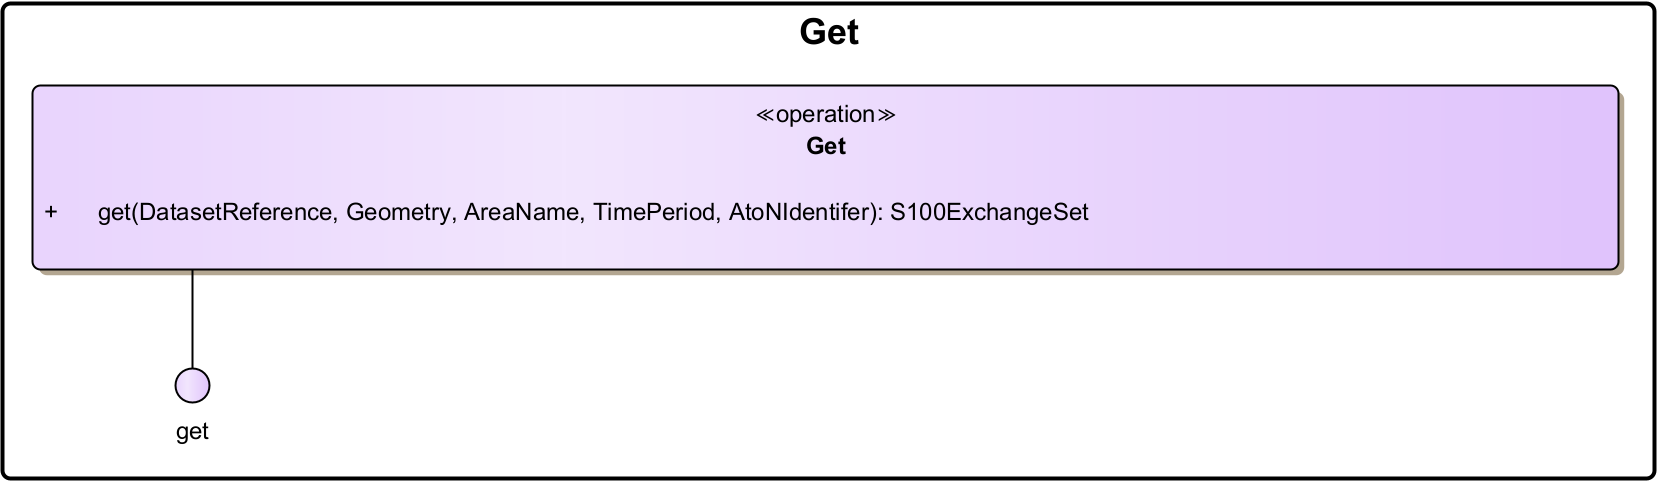
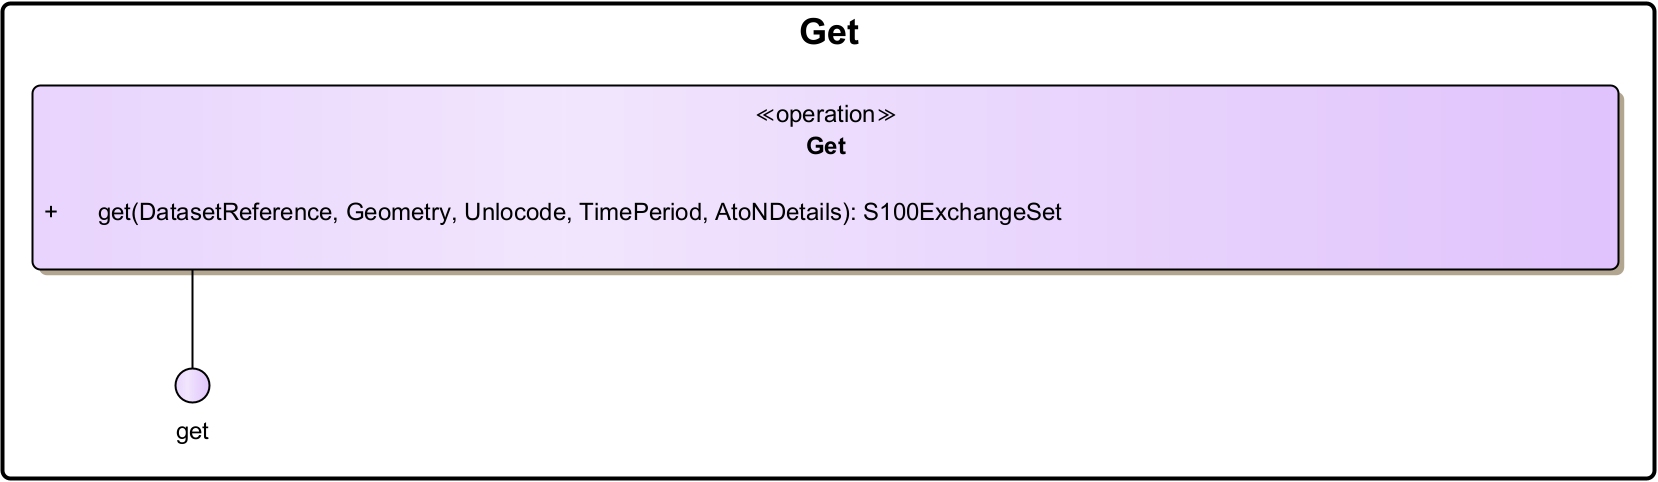
Updating the specification figures

Changed region(s): [[0.2768, 0.4046, 0.6767, 0.4668]]

diff --git a/source/guideline/service_overview.md b/source/guideline/service_overview.md
@@ -116,7 +116,7 @@ If multiple operation parameters are provided, only the results matching all req
 
 All instances of services providing AtoN information are required to support all operation parameters presented in the following sub-section [@sec:get_operation_parameters], apart from the `<TimePeriod>` which is optional. The specific encodings are left to be decided by the service technical design specification. In most cases the parameter description provides an adequate definition.
 
-The service also supports the AtoN status indication feature type included in the S-125 data product specification. By default the service will return S-125 datasets that only contain the status indication information for the involved AtoN. If the service provider however chooses so, an optional `<AtonDetails>` input parameter can be utilised to provide access to the full AtoN feature information for the respective datasets. These are expected to be much larger and the AtoN feature information may not be processed for portrayal on the ECDIS. If the full AtoN feature information is requested but not available, the service should respond with the default datasets containing the AtoN status indication features only.
+The service also supports the AtoN status indication feature type included in the S-125 data product specification. By default the service will return S-125 datasets that only contain the status indication information for the involved AtoN. If the service provider however chooses so, an optional `<AtoNDetails>` input parameter can be utilised to provide access to the full AtoN feature information for the respective datasets. These are expected to be much larger and the AtoN feature information may not be processed for portrayal on the ECDIS. If the full AtoN feature information is requested but not available, the service should respond with the default datasets containing the AtoN status indication features only.
 
 #### Operation Parameters {#sec:get_operation_parameters}
 
@@ -126,7 +126,7 @@ The service also supports the AtoN status indication feature type included in th
 | Geometry | See technical design | 0..1 | Geometry condition for geolocated information objects. This can be used to filter on geometric shapes (e.g. filter AtoN information S-125 datasets by a bounding box). |
 | unlocode | See technical design | 0..1 | UN/LOCODE (United Nations Code for Trade and Transport Locations) of a defined object (e.g., “CN” for China). |
 | TimePeriod (Optional) | See technical design | 0..1 | An optional parameter denoting the time period (ValidFrom, ValidTo) in which a dataset is valid and becomes subject to changes. The service response is expected to encompass all modifications that occurred within the specified interval and should be provided in the form of complete datasets or delta files, adhering to the specifications outlined in the S-100 data model specification. |
-| AtonDetails | Boolean | 0..1 | Requests that the service will return all AtoN information along with the status indications, if available. |
+| AtoNDetails | Boolean | 0..1 | Requests that the service will return all AtoN information along with the status indications, if available. |
 
 : The Get Operation Parameters. {#tbl:get_operational_parameters}
 
@@ -144,7 +144,7 @@ If multiple operation parameters are provided, only the results that match all r
 
 All instances of services providing AtoN information are required to support all operation parameters presented in the following sub-section [@sec:get_summary_operation_parameters], apart from the `<TimePeriod>` which is optional. The specific encodings are left to be decided by the respective service technical design specification. In most cases the parameter description provides an adequate definition.
 
-As discussed previously, the service also supports the AtoN status indication feature type included in the S-125. Therefore, by default the service will return the summary information of the S-125 datasets that only contain the status indication information for the involved AtoN. If the service provider however chooses so, an optional `<AtonDetails>` input parameter can be utilised to the summary information for the full respective datasets, including all AtoN features. If the full AtoN feature information is requested but not available, the service should respond with the summary of the default datasets containing the AtoN status indication features only.
+As discussed previously, the service also supports the AtoN status indication feature type included in the S-125. Therefore, by default the service will return the summary information of the S-125 datasets that only contain the status indication information for the involved AtoN. If the service provider however chooses so, an optional `<AtoNDetails>` input parameter can be utilised to the summary information for the full respective datasets, including all AtoN features. If the full AtoN feature information is requested but not available, the service should respond with the summary of the default datasets containing the AtoN status indication features only.
 
 #### Operation Parameters {#sec:get_summary_operation_parameters}
 
@@ -154,7 +154,7 @@ As discussed previously, the service also supports the AtoN status indication fe
 | Geometry | See technical design | 0..1 | Geometry condition for geolocated information objects. This can be used to filter on geometric shapes (e.g. filter AtoN information by a bounding box). |
 | unlocode | See technical design | 0..1 | UN/LOCODE (United Nations Code for Trade and Transport Locations) of a defined object (e.g., “CN” for China). |
 | TimePeriod (Optional) | See technical design | 0..1 | An optional parameter denoting the time period (ValidFrom, ValidTo) in which a dataset is valid and becomes subject to changes. The service response should only include the S-125 datasets for which modifications occurred within the specified interval. |
-| AtonDetails | Boolean | 0..1 | Requests that the service will return all AtoN information along with the status indications, if available. |
+| AtoNDetails | Boolean | 0..1 | Requests that the service will return all AtoN information along with the status indications, if available. |
 
 : The Get Summary Operation Parameters. {#tbl:get_summary_operational_parameters}
 
@@ -189,7 +189,7 @@ The Upload consumer operation is utilised by the service provider to push the in
 All instances of services providing AtoN information are required to support all operation parameters presented in the following sub-section [@sec:subscription_operation_parameters], although the specific encodings are left to be decided by the service technical design specification. In most cases the parameter description provides an adequate definition.
 
 
-As discussed previously, the service also supports the AtoN status indication feature type included in the S-125. Therefore, by default the service will return the S-125 dataset updates that only contain the status indication information for the involved AtoN. If the service provider however chooses so, an optional `<AtonDetails>` input parameter can be utilised to allow subscriptions tot the full respective datasets, including all AtoN features. If the full AtoN feature information is requested but not available, the service should respond with the default datasets containing the AtoN status indication features only.
+As discussed previously, the service also supports the AtoN status indication feature type included in the S-125. Therefore, by default the service will return the S-125 dataset updates that only contain the status indication information for the involved AtoN. If the service provider however chooses so, an optional `<AtoNDetails>` input parameter can be utilised to allow subscriptions tot the full respective datasets, including all AtoN features. If the full AtoN feature information is requested but not available, the service should respond with the default datasets containing the AtoN status indication features only.
 
 #### Operation Parameters {#sec:subscription_operation_parameters}
 
@@ -199,7 +199,7 @@ As discussed previously, the service also supports the AtoN status indication fe
 | Geometry | See technical design | 0..1 | Geometry condition for geolocated information objects. This can be used to filter on geometric shapes (e.g. filter AtoN information by a bounding box). |
 | unlocode | See technical design | 0..1 | UN/LOCODE (United Nations Code for Trade and Transport Locations) of a defined object (e.g., “CN” for China). |
 | SubscriptionPeriod | See technical design | 0..1 | The period for which the subscription is active (start and end date/time). |
-| AtonDetails | Boolean | 0..1 | Requests that the service will return all AtoN information along with the status indications, if available. |
+| AtoNDetails | Boolean | 0..1 | Requests that the service will return all AtoN information along with the status indications, if available. |
 
 : The Subscription Operation Parameters. {#tbl:subscription_operational_parameters}
 
@@ -265,8 +265,8 @@ The acknowledgement message may be expected to be received when the uploaded mes
 
 | Parameters (in) | Encoding | Mult. | Descriptions |
 | --- | --- | ---  | --- |
-| S100ExchangeSet | S100ExchangeSet | 1 | S-125 datasets which conform to the data product specification including the service metadata (see Section 5). |
-| FromSubscription (Optional) | See technical design | 0..1 | Flag to indicate whether the payload has been uploaded within an active subscription or not. |
+| Data | See technical design | 1 | S-125 datasets which conform to the data product specification including the service metadata (see Section 5). |
+| SubscriptionIdentifier (Optional) | See technical design | 0..1 | Specific identifier of the subscription as part of which the data is being uploaded for. |
 | AckRequest (Optional) | See technical design | 0..1 | Flag to indicate that acknowledgement is expected when delivered, and an acknowledgement when message has been opened (read) by end user. |
 
 : The Upload Operation Parameters. {#tbl:upload_operational_parameters}
